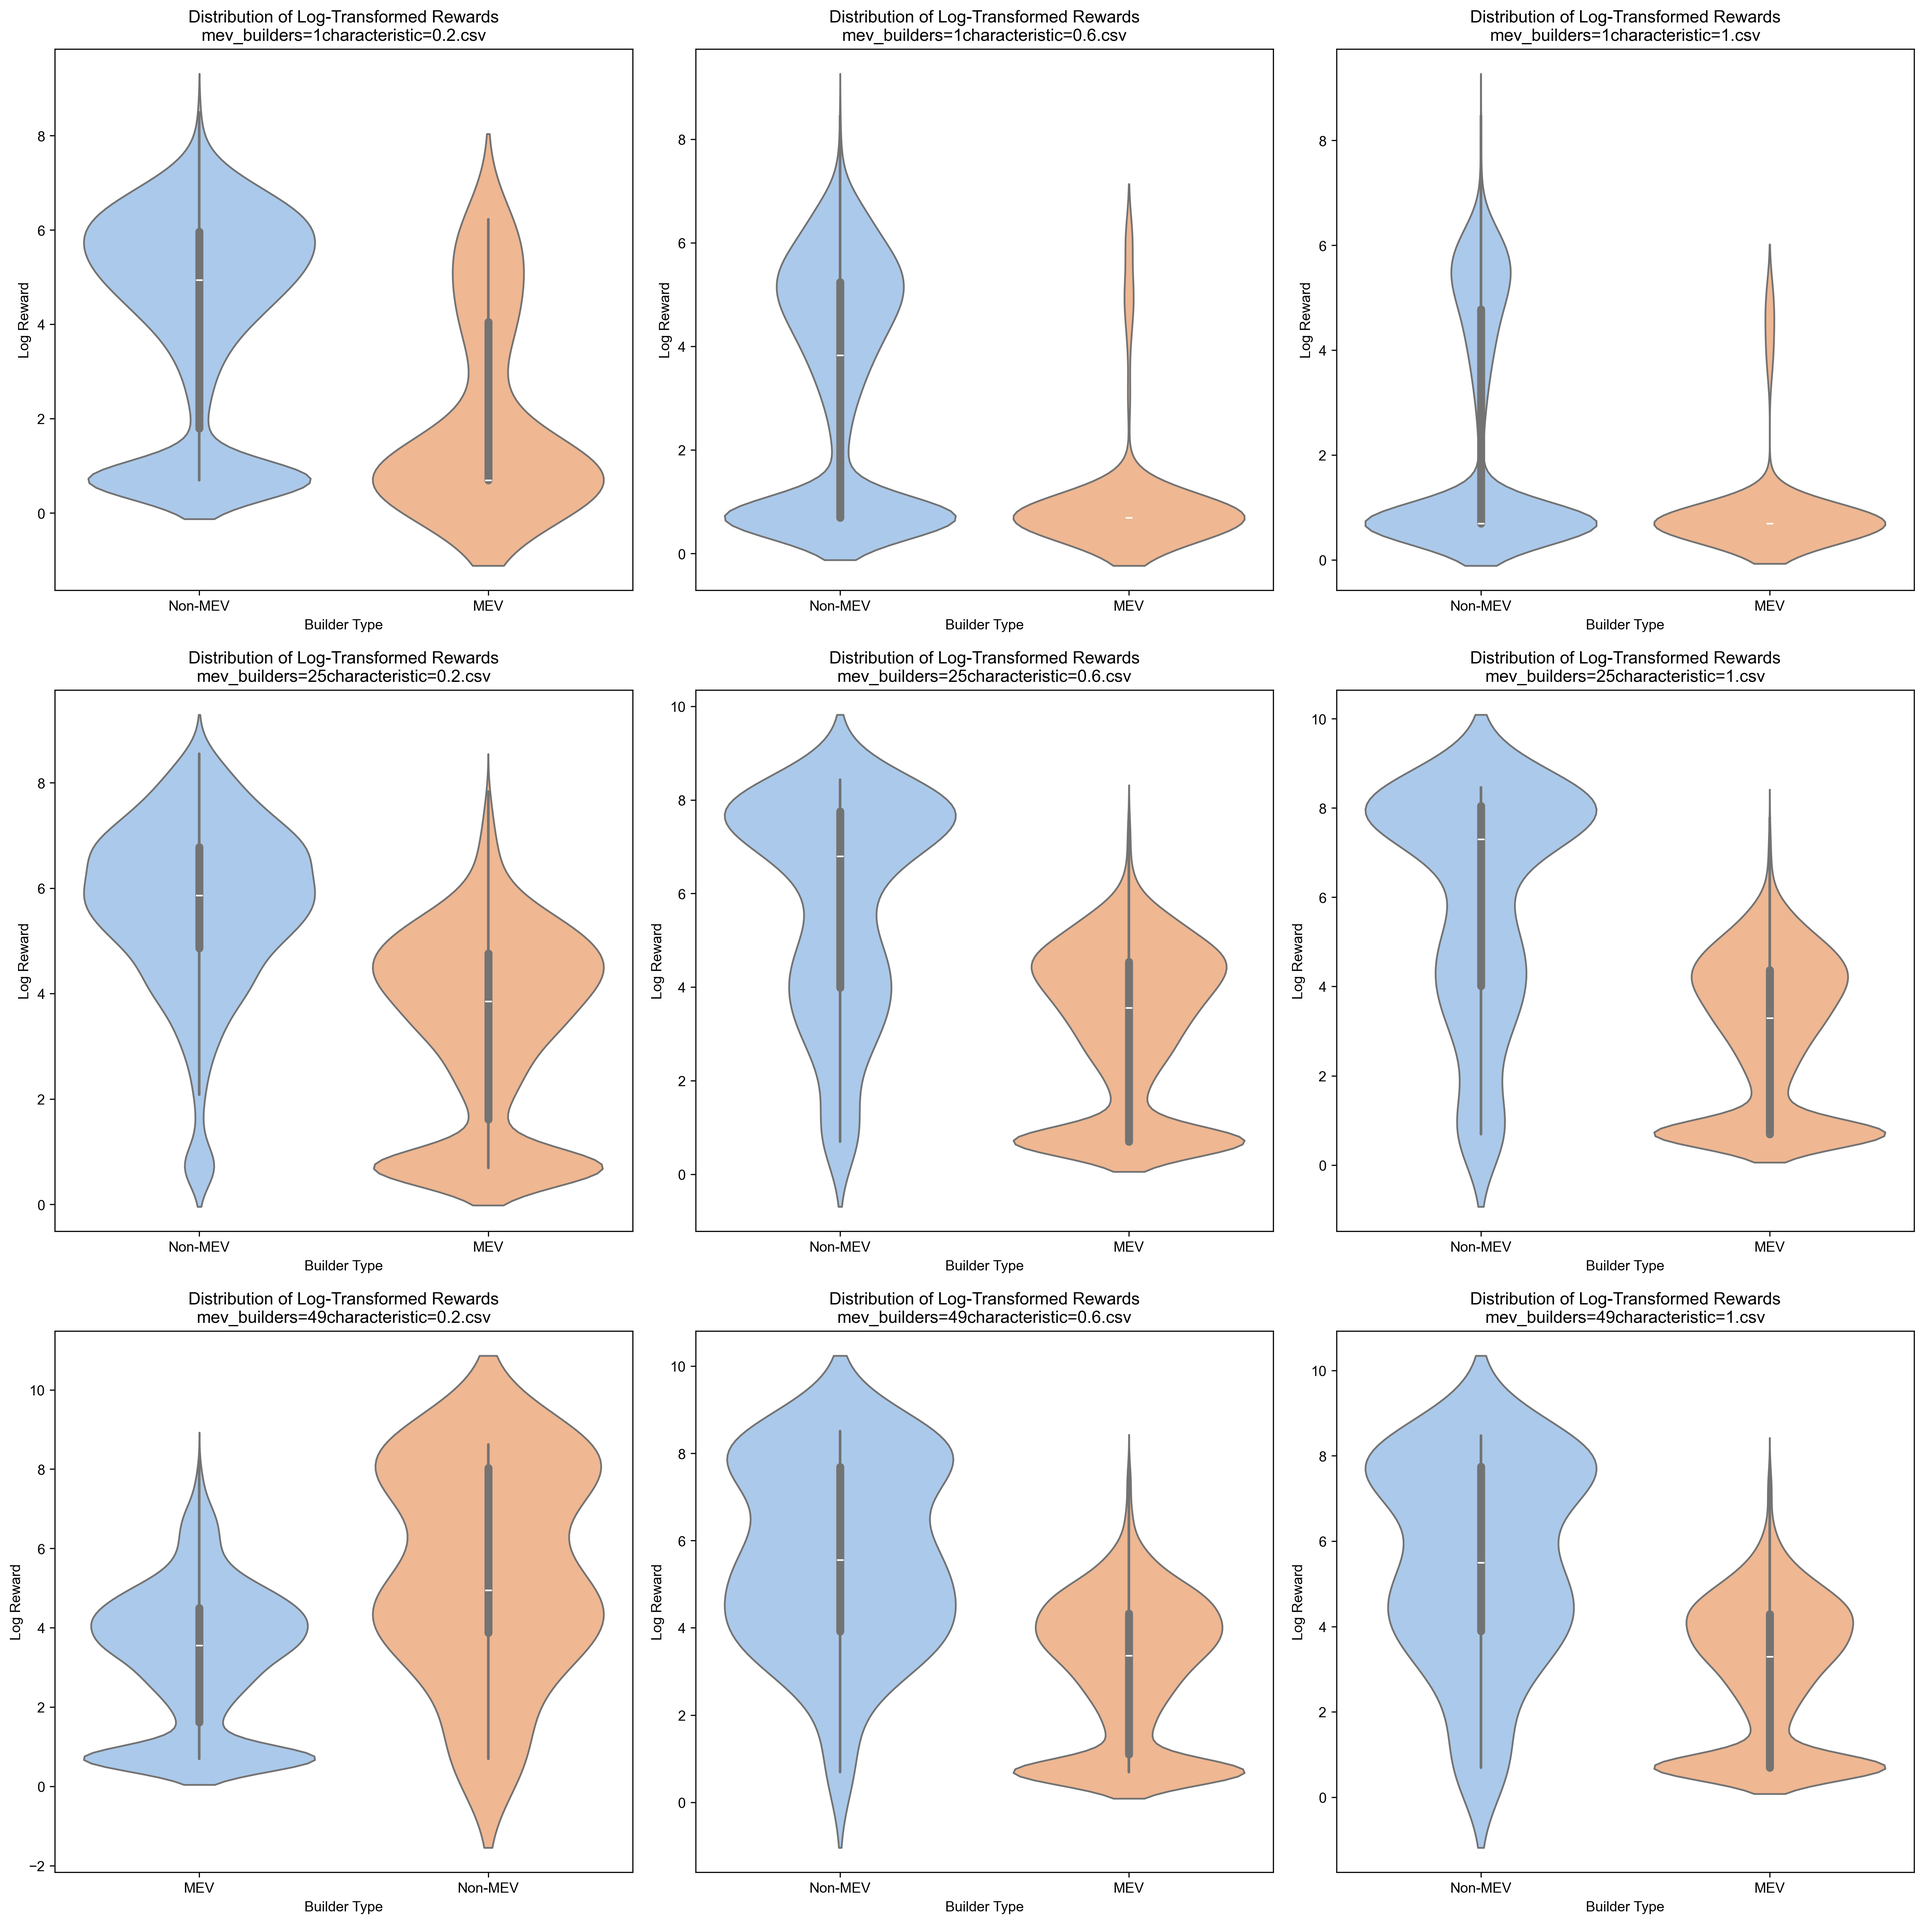
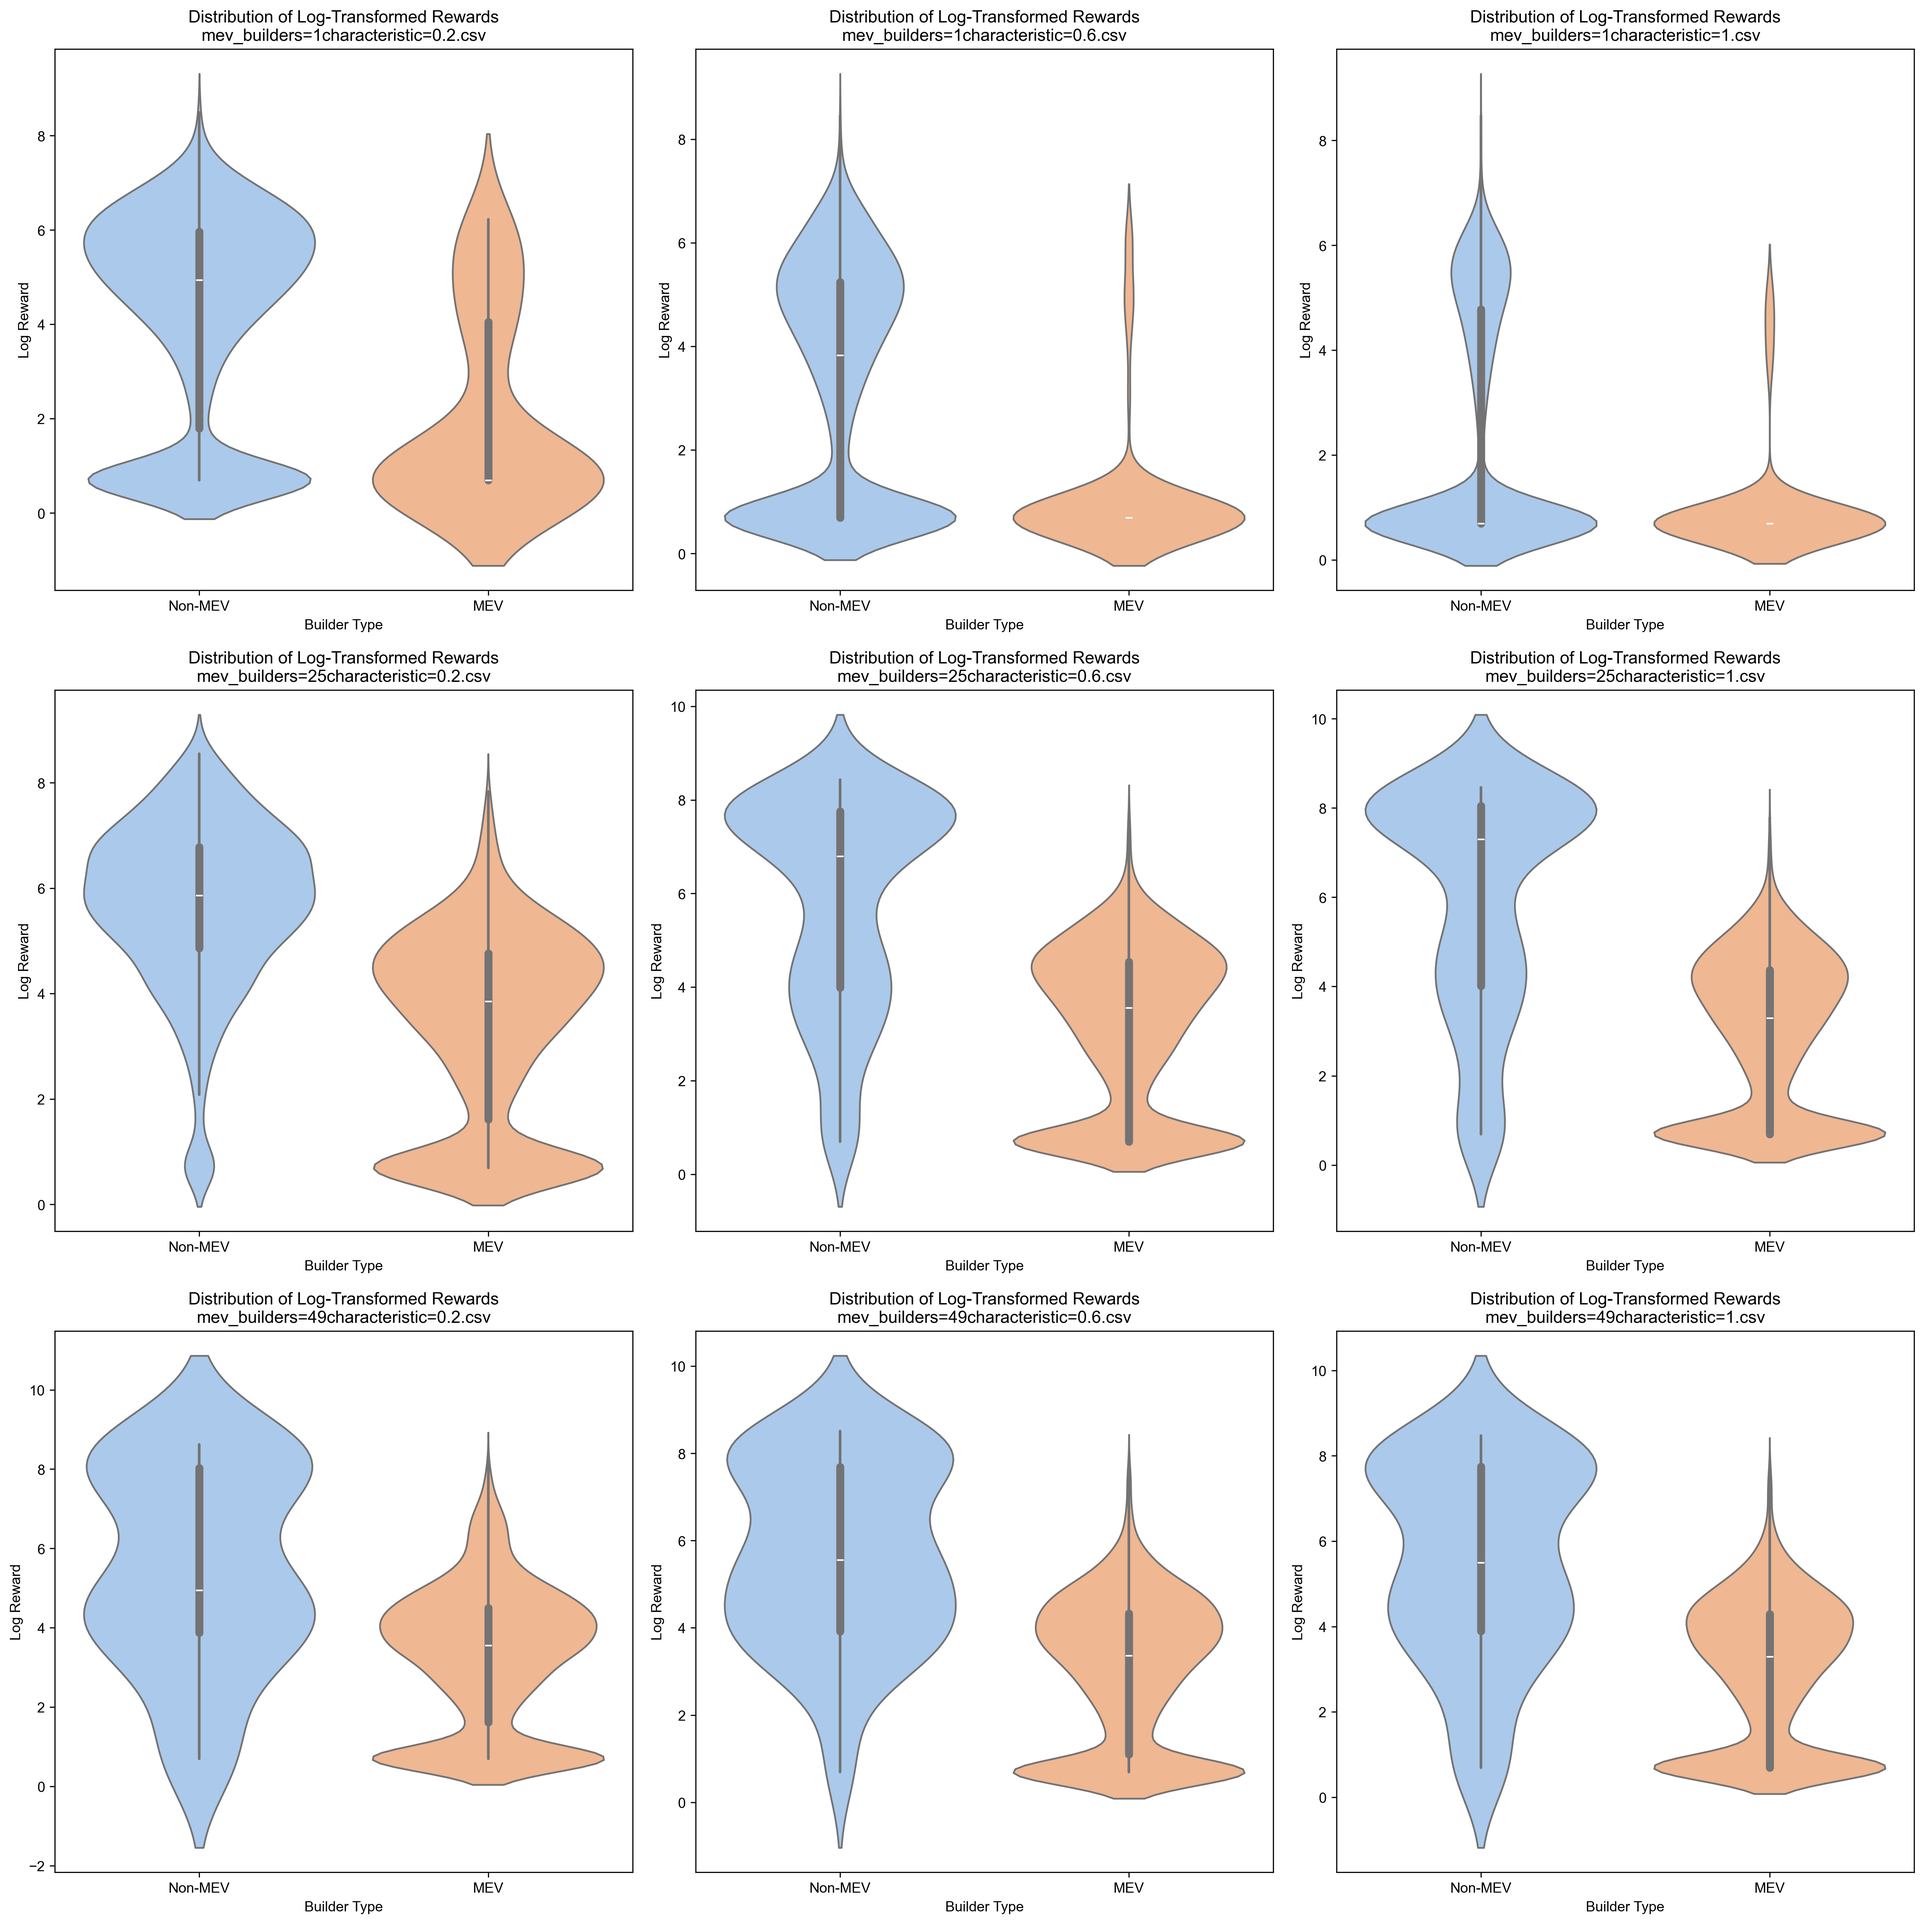
change order

Changed region(s): [[0.0312, 0.6854, 0.3115, 0.9658]]

diff --git a/scripts/box_plot.py b/scripts/box_plot.py
@@ -25,12 +25,25 @@ def process_file(file):
         print(f"Error processing file {file}: {e}")
         return pd.DataFrame()
 
+# Function to ensure correct builder type assignment
+def correct_builder_types(df):
+    # Check for MEV and Non-MEV builder types
+    if set(df['builder_type'].unique()) == {0, 1}:
+        # No correction needed
+        return df
+    else:
+        # Correct the assignment if necessary
+        df['builder_type'] = np.where(df['builder_type'] == 1, 1, 0)
+        return df
+
 # Function to create a violin plot for reward distribution
 def plot_reward_distribution(ax, data, file_name):
     # Apply log transformation to the reward to reduce skewness
     data['log_reward'] = np.log1p(data['reward'])
     
-    # Create a DataFrame for plotting
+    # Correct builder types
+    data = correct_builder_types(data)
+    
     reward_data = pd.DataFrame({
         'Log Reward': data['log_reward'],
         'Builder Type': np.where(data['builder_type'] == 1, 'Non-MEV', 'MEV')
@@ -38,7 +51,7 @@ def plot_reward_distribution(ax, data, file_name):
     
     # Plot violin plots with Seaborn's pastel palette
     sns.set(style="whitegrid")
-    sns.violinplot(ax=ax, x='Builder Type', y='Log Reward', data=reward_data, palette='pastel')
+    sns.violinplot(ax=ax, x='Builder Type', y='Log Reward', data=reward_data, palette='pastel', order=['Non-MEV', 'MEV'])
     ax.set_title(f'Distribution of Log-Transformed Rewards\n{file_name}')
     ax.set_xlabel('Builder Type')
     ax.set_ylabel('Log Reward')
@@ -68,6 +81,8 @@ if __name__ == '__main__':
     # Create a 3x3 subplot
     fig, axes = plt.subplots(3, 3, figsize=(19, 19))
     axes = axes.flatten()
+    
+    sns.set(style="whitegrid")  # Set the style once
     
     # Process and plot each file separately
     for i, file_name in enumerate(representative_files):
